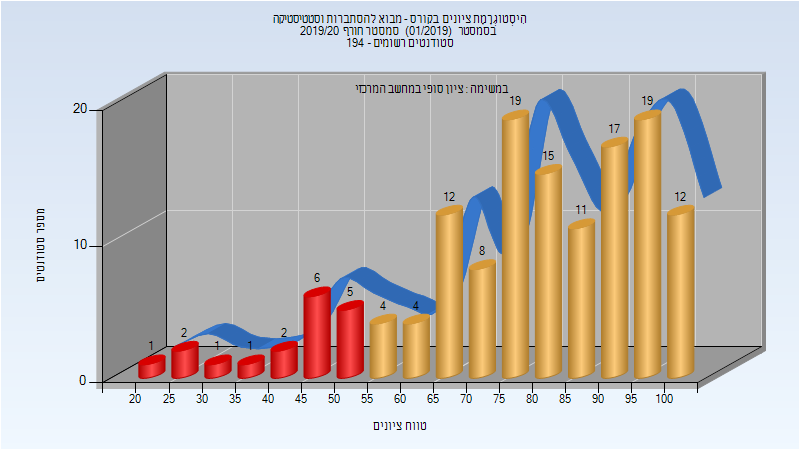
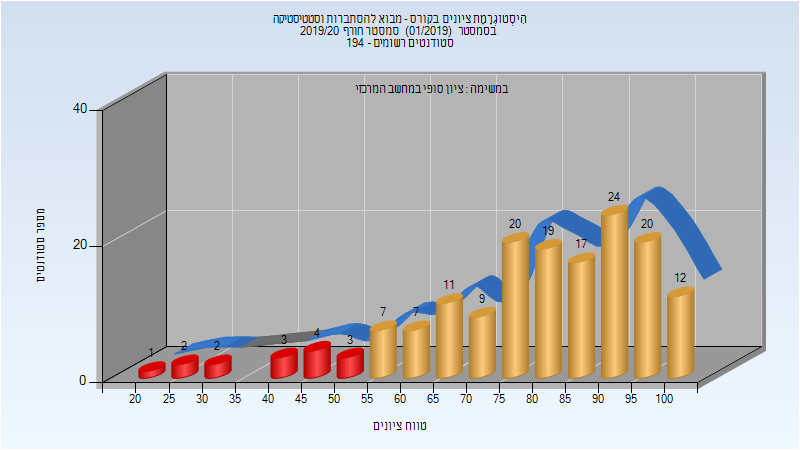
Deploy michael-maltsev/technion-histograms to github.com/michael-maltsev/technion-histograms.git:gh-pages

Changed region(s): [[0.1562, 0.1867, 0.9062, 0.84], [0.0938, 0.5289, 0.125, 0.56], [0.0938, 0.2178, 0.125, 0.2489]]

diff --git a/315003/index.html b/315003/index.html
@@ -405,5 +405,84 @@
 </tr>
 </tbody>
 </table>
+<h2>אביב 2020</h2>
+<table>
+<thead>
+<tr>
+<th>איש סגל</th>
+<th>תפקיד</th>
+</tr>
+</thead>
+<tbody>
+<tr>
+<td>בקנשטיין יהונדב</td>
+<td>מרצה - אחראי מקצוע</td>
+</tr>
+<tr>
+<td>לנג ערד</td>
+<td>מתרגל</td>
+</tr>
+<tr>
+<td>דוד רותי</td>
+<td>סגל מנהלי - עם הרשאות מרצה אחראי</td>
+</tr>
+<tr>
+<td>סנדר אושרית</td>
+<td>סגל מנהלי - עם הרשאות מרצה אחראי</td>
+</tr>
+</tbody>
+</table>
+<h3>מבחן מועד א'</h3>
+<p><img src="201902/Exam_A.png" alt="201902 Exam_A" /></p>
+<table>
+<thead>
+<tr>
+<th>סטודנטים</th>
+<th>עברו/נכשלו</th>
+<th>אחוז עוברים</th>
+<th>ציון מינימלי</th>
+<th>ציון מקסימלי</th>
+<th>ממוצע</th>
+<th>חציון</th>
+</tr>
+</thead>
+<tbody>
+<tr>
+<td>42</td>
+<td>32/10</td>
+<td>76</td>
+<td>34</td>
+<td>100</td>
+<td>68.833</td>
+<td>69.5</td>
+</tr>
+</tbody>
+</table>
+<h3>סופי מועד א'</h3>
+<p><img src="201902/Final_A.png" alt="201902 Final_A" /></p>
+<table>
+<thead>
+<tr>
+<th>סטודנטים</th>
+<th>עברו/נכשלו</th>
+<th>אחוז עוברים</th>
+<th>ציון מינימלי</th>
+<th>ציון מקסימלי</th>
+<th>ממוצע</th>
+<th>חציון</th>
+</tr>
+</thead>
+<tbody>
+<tr>
+<td>42</td>
+<td>38/4</td>
+<td>90</td>
+<td>47</td>
+<td>100</td>
+<td>74.476</td>
+<td>74</td>
+</tr>
+</tbody>
+</table>
   </body>
 </html>

diff --git a/094481/index.html b/094481/index.html
@@ -1101,6 +1101,32 @@
 </tr>
 </tbody>
 </table>
+<h3>סופי מועד ב'</h3>
+<p><img src="201901/Final_B.png" alt="201901 Final_B" /></p>
+<table>
+<thead>
+<tr>
+<th>סטודנטים</th>
+<th>עברו/נכשלו</th>
+<th>אחוז עוברים</th>
+<th>ציון מינימלי</th>
+<th>ציון מקסימלי</th>
+<th>ממוצע</th>
+<th>חציון</th>
+</tr>
+</thead>
+<tbody>
+<tr>
+<td>37</td>
+<td>33/4</td>
+<td>89</td>
+<td>34</td>
+<td>97</td>
+<td>73.486</td>
+<td>78</td>
+</tr>
+</tbody>
+</table>
 <h3>סופי</h3>
 <p><img src="201901/Finals.png" alt="201901 Finals" /></p>
 <table>
@@ -1117,13 +1143,13 @@
 </thead>
 <tbody>
 <tr>
-<td>139</td>
-<td>121/18</td>
-<td>87</td>
+<td>161</td>
+<td>146/15</td>
+<td>91</td>
 <td>20</td>
 <td>100</td>
-<td>78.417</td>
-<td>80</td>
+<td>79.286</td>
+<td>83</td>
 </tr>
 </tbody>
 </table>

diff --git a/274142/index.html b/274142/index.html
@@ -114,7 +114,7 @@
 </thead>
 <tbody>
 <tr>
-<td>ריסקין אריה</td>
+<td>קאפמן מיכאל</td>
 <td>מרצה - אחראי מקצוע</td>
 </tr>
 <tr>

diff --git a/315003/README.md b/315003/README.md
@@ -123,3 +123,28 @@
 | ---- | ---- | ---- | ---- | ---- | ---- | ---- |
 | 40 | 33/7 | 82 | 13 | 100 | 67.9 | 69.5 |
 
+## אביב 2020
+
+| איש סגל | תפקיד |
+| ---- | ---- |
+| בקנשטיין יהונדב | מרצה - אחראי מקצוע |
+| לנג ערד | מתרגל |
+| דוד רותי | סגל מנהלי - עם הרשאות מרצה אחראי |
+| סנדר אושרית | סגל מנהלי - עם הרשאות מרצה אחראי |
+
+### מבחן מועד א'
+
+![201902 Exam_A](201902/Exam_A.png)
+
+| סטודנטים | עברו/נכשלו | אחוז עוברים | ציון מינימלי | ציון מקסימלי | ממוצע | חציון |
+| ---- | ---- | ---- | ---- | ---- | ---- | ---- |
+| 42 | 32/10 | 76 | 34 | 100 | 68.833 | 69.5 |
+
+### סופי מועד א'
+
+![201902 Final_A](201902/Final_A.png)
+
+| סטודנטים | עברו/נכשלו | אחוז עוברים | ציון מינימלי | ציון מקסימלי | ממוצע | חציון |
+| ---- | ---- | ---- | ---- | ---- | ---- | ---- |
+| 42 | 38/4 | 90 | 47 | 100 | 74.476 | 74 |
+

diff --git a/094481/README.md b/094481/README.md
@@ -346,13 +346,21 @@
 | ---- | ---- | ---- | ---- | ---- | ---- | ---- |
 | 139 | 121/18 | 87 | 20 | 100 | 77.95 | 79 |
 
+### סופי מועד ב'
+
+![201901 Final_B](201901/Final_B.png)
+
+| סטודנטים | עברו/נכשלו | אחוז עוברים | ציון מינימלי | ציון מקסימלי | ממוצע | חציון |
+| ---- | ---- | ---- | ---- | ---- | ---- | ---- |
+| 37 | 33/4 | 89 | 34 | 97 | 73.486 | 78 |
+
 ### סופי
 
 ![201901 Finals](201901/Finals.png)
 
 | סטודנטים | עברו/נכשלו | אחוז עוברים | ציון מינימלי | ציון מקסימלי | ממוצע | חציון |
 | ---- | ---- | ---- | ---- | ---- | ---- | ---- |
-| 139 | 121/18 | 87 | 20 | 100 | 78.417 | 80 |
+| 161 | 146/15 | 91 | 20 | 100 | 79.286 | 83 |
 
 ## אביב 2020
 

diff --git a/274142/README.md b/274142/README.md
@@ -30,7 +30,7 @@
 
 | איש סגל | תפקיד |
 | ---- | ---- |
-| ריסקין אריה | מרצה - אחראי מקצוע |
+| קאפמן מיכאל | מרצה - אחראי מקצוע |
 | הלוי שרה | סגל מנהלי - עם הרשאות מרצה אחראי |
 | איינשטיין ליאת | סגל מנהלי - עם הרשאות מרצה אחראי |
 | בוניאל מורן | סגל מנהלי - עם הרשאות מרצה אחראי |
